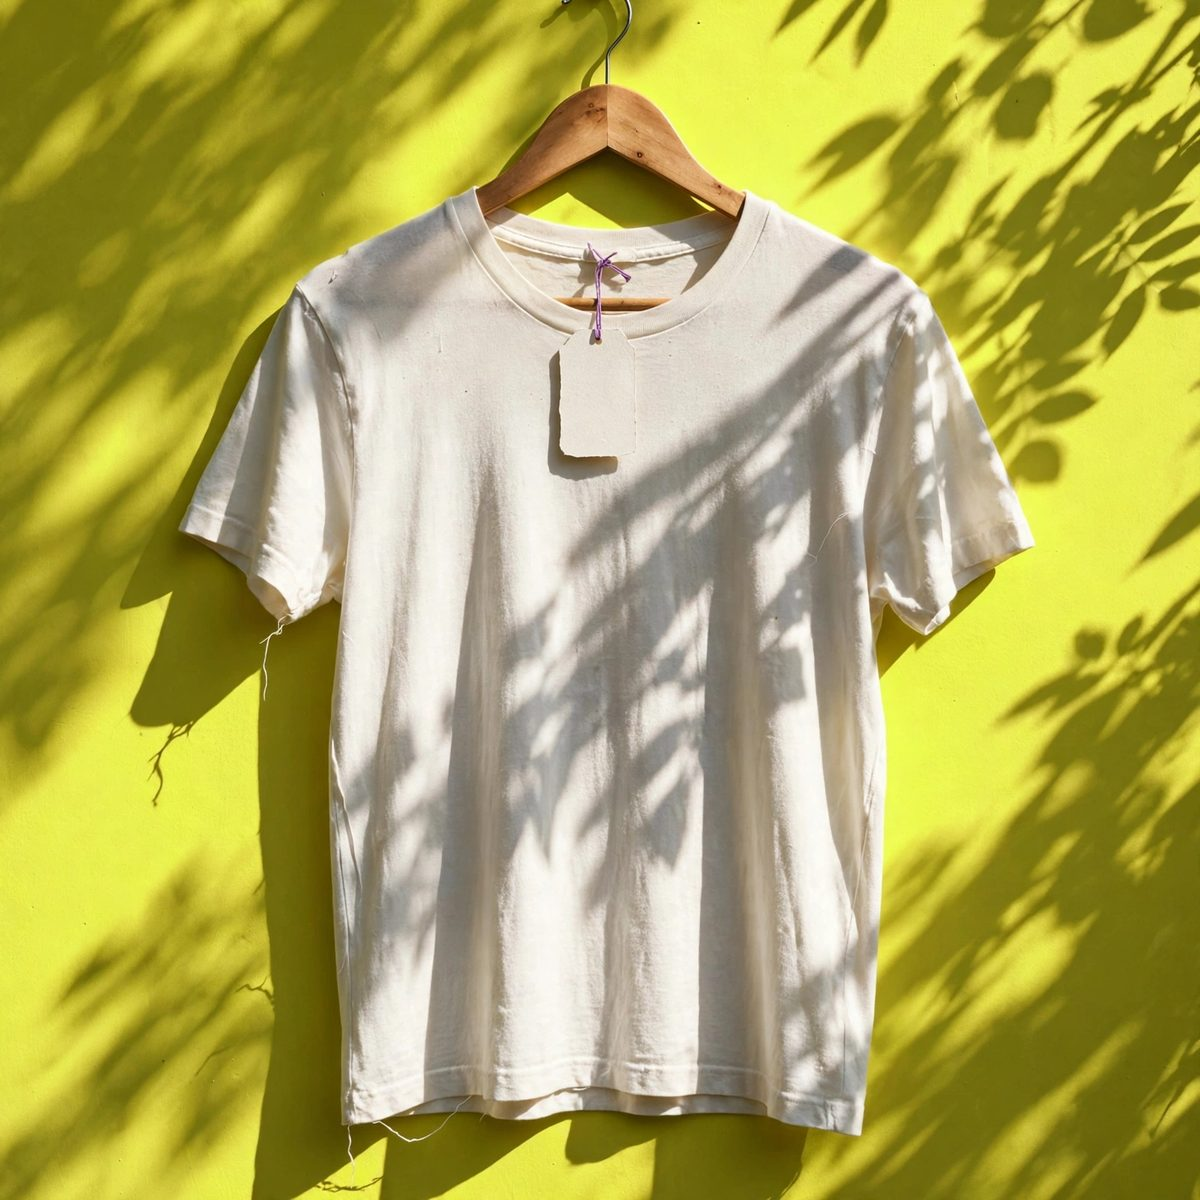
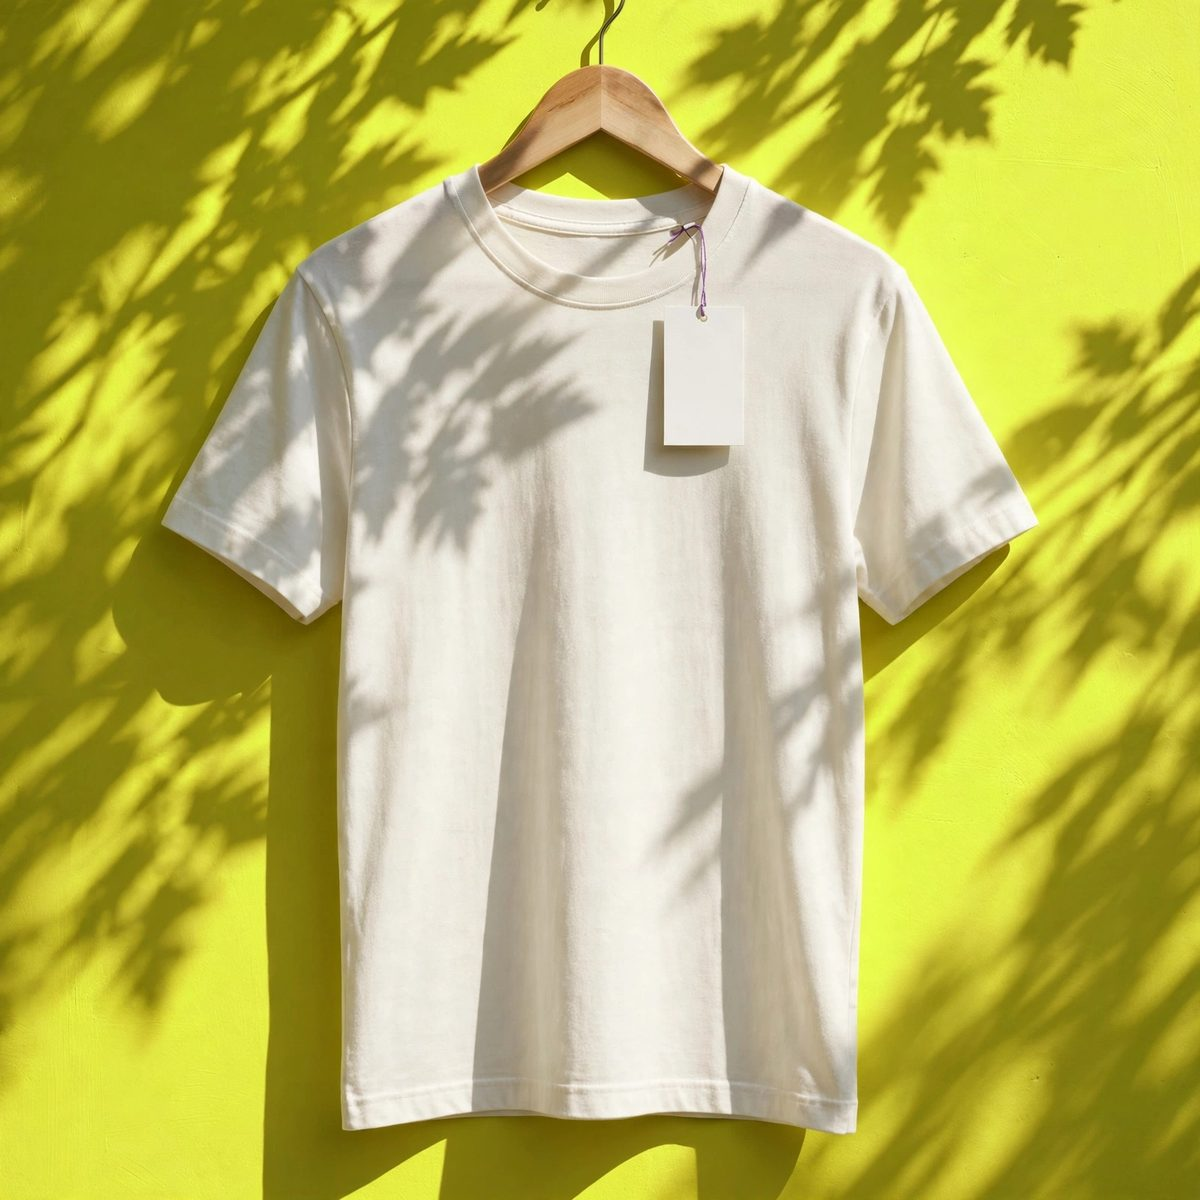
Garment photographs remade as new stock: brand-new, freshly steamed, evenly dyed, no wear or loose threads, in the same light and setting. The phone's camera now centres the QR printed on the tag in its viewfinder. The story's text columns and the river photo sit clear of the stitched road at every 

diff --git a/web/src/Home.tsx b/web/src/Home.tsx
@@ -105,8 +105,9 @@ export function PhoneStory() {
   if (!batch || !product) return null
   const box = (TAGS as Record<string, { x: number; y: number; w: number; h: number }>)[product.kind]
   const go = (i: number) => { setAuto(false); setStep(i) }
-  // where the tag sits on the phone's screen, in % of it: the camera zooms in around it and brings it to the middle
-  const ox = 50 + (box.x + box.w / 2 - 0.5) * WIDE, oy = (box.y + box.h / 2) * 100
+  // where the QR printed on the tag sits on the phone's screen, in % of it: the camera zooms in around it and centres it
+  // (the print starts 24% down the card and is as tall as it is wide: 72% of the card's width, the photo being 4:5)
+  const ox = 50 + (box.x + box.w / 2 - 0.5) * WIDE, oy = (box.y + box.h * 0.24 + (box.w * 0.72 * 0.8) / 2) * 100
   return (
     <section className="phone-story" ref={ref} aria-label="Scanning a garment's tag">
       <div className="ps-copy">
@@ -127,7 +128,7 @@ export function PhoneStory() {
             <div className="ps-screen ps-tag"><Garment kind={product.kind} tag qr={qr} /></div>
             <div className="ps-screen ps-camera">
               {/* the camera framed on the tag: the same photo, close in on it */}
-              <div className="ps-zoom" style={{ transformOrigin: `${ox}% ${oy}%`, transform: step === 1 ? `translate(${50 - ox}%, ${46 - oy}%) scale(3.2)` : 'scale(1.4)' }}><Garment kind={product.kind} tag qr={qr} /></div>
+              <div className="ps-zoom" style={{ transformOrigin: `${ox}% ${oy}%`, transform: step === 1 ? `translate(${50 - ox}%, ${50 - oy}%) scale(3.2)` : 'scale(1.4)' }}><Garment kind={product.kind} tag qr={qr} /></div>
               <svg className="ps-finder" viewBox="0 0 100 100"><path d="M4 26V8Q4 4 8 4H26M74 4H92Q96 4 96 8V26M96 74V92Q96 96 92 96H74M26 96H8Q4 96 4 92V74" /></svg><span className="ps-pill">Tellwater batch passport ↗</span>
             </div>
             <div className="ps-screen ps-passport">

diff --git a/web/src/Journey.tsx b/web/src/Journey.tsx
@@ -190,7 +190,7 @@ export function Footer({ motion, setMotion, replay }: { motion: boolean; setMoti
   )
 }
 
-const OBSTACLES = '.story-quote, .story-stop h3, .story-stop p, .story-stop .micro, .photo-frame, .connection-art, .road-finish h3, .road-finish .button, .story-intro h2, .story-intro p, .scroll-prompt'
+const OBSTACLES = '.story-quote'  // the road crosses the quote card; everything else is laid out clear of the road
 // resting in a story section, the companion acts it out: looking into the water, reading the quote,
 // asking at the missing connection, a hop at the clearer picture
 const ROAD_MOODS: [string, Mood][] = [['.stop-two', 'checking'], ['.story-quote', 'reading'], ['.stop-three', 'asking'], ['.road-finish', 'found']]
@@ -234,7 +234,7 @@ export function Companion({ hidden, motion, onClick }: { hidden: boolean; motion
       // the section in the middle of the screen, not where it stands (it steps off the quote to keep it readable)
       setRoadMood(m === 'road' ? [...ROAD_MOODS].reverse().find(([sel]) => { const r = rectOf(sel); return r && r.top < innerHeight * 0.6 && r.bottom > innerHeight * 0.25 })?.[1] ?? null : null)
     }
-    // never stand on the quote, a photo or a line of text: wait at its near edge, then hop to the far one
+    // never stand on the quote: wait at its near edge, then hop to the far one
     const avoid = (x: number, y: number): [number, number] => {
       const w = f.offsetWidth / 2 + 8, h = f.offsetHeight / 2 + 8
       let dir = 0

diff --git a/web/src/styles/companion.css b/web/src/styles/companion.css
@@ -94,5 +94,17 @@
   .ps-copy h2 { font-size: 40px }
 }
 .hero-object .round-seal, .hero-object .stitch-tag, .hero-object .object-label { display: none }
-.hero-object .label-note { top: 24%; right: 21% }
+.hero-object .label-note { top: 23%; right: 16% }
 .tag-stage .tag-pointer { background: #f4f1e6e6; padding: 8px 12px 6px; border-radius: 6px; z-index: 1 }
+
+/* the story's text and photos sit clear of the stitched road, so the companion only ever hops the quote */
+@media (min-width: 761px) {
+  .stop-one .story-text, .stop-three .story-text { padding-left: 16% }
+  .stop-two .photo-frame { margin-left: 14% }
+}
+@media (min-width: 761px) and (max-width: 1279px) {
+  .story-intro h2 { font-size: clamp(64px, 7.4vw, 94px) }
+  .story-stop { gap: 26% }
+  .stop-one .story-text, .stop-three .story-text { padding-left: 8% }
+  .stop-two .photo-frame { margin-left: 6% }
+}
